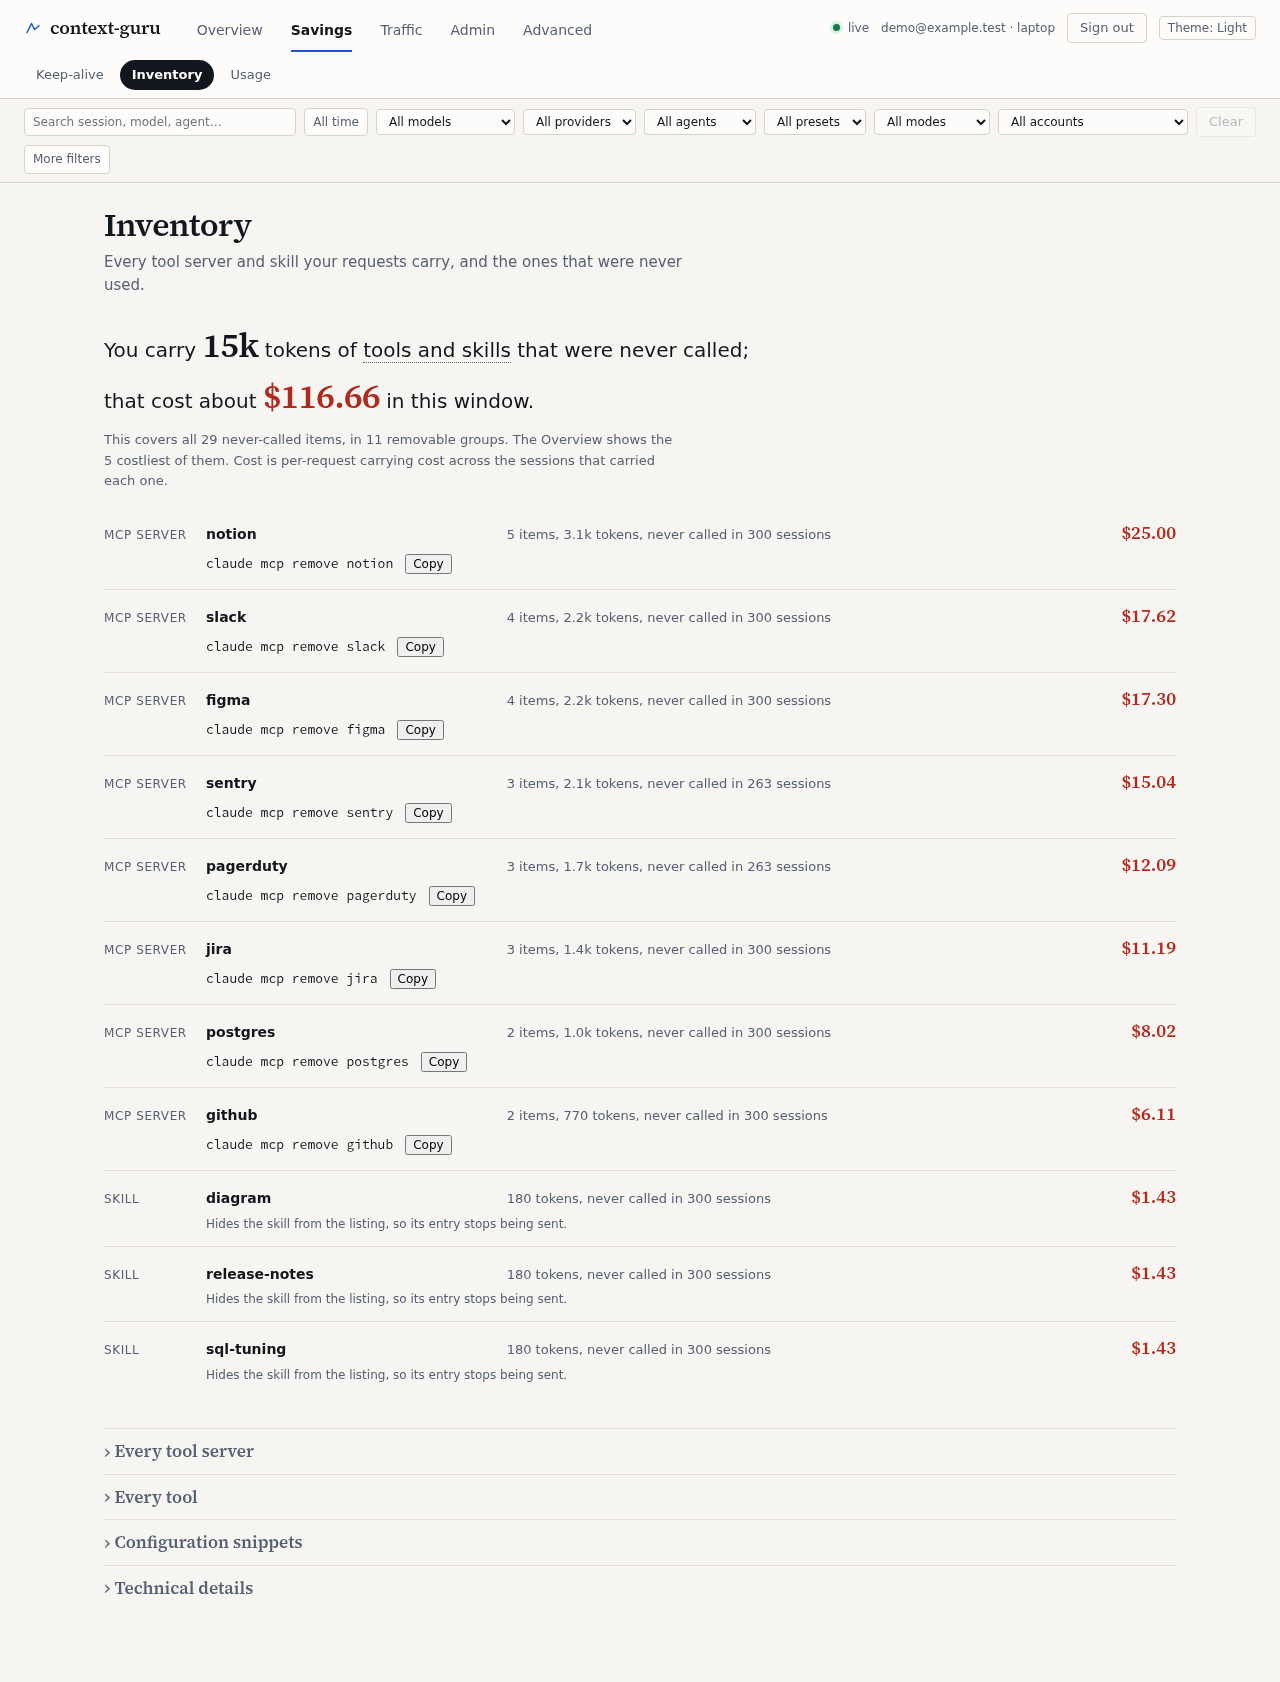
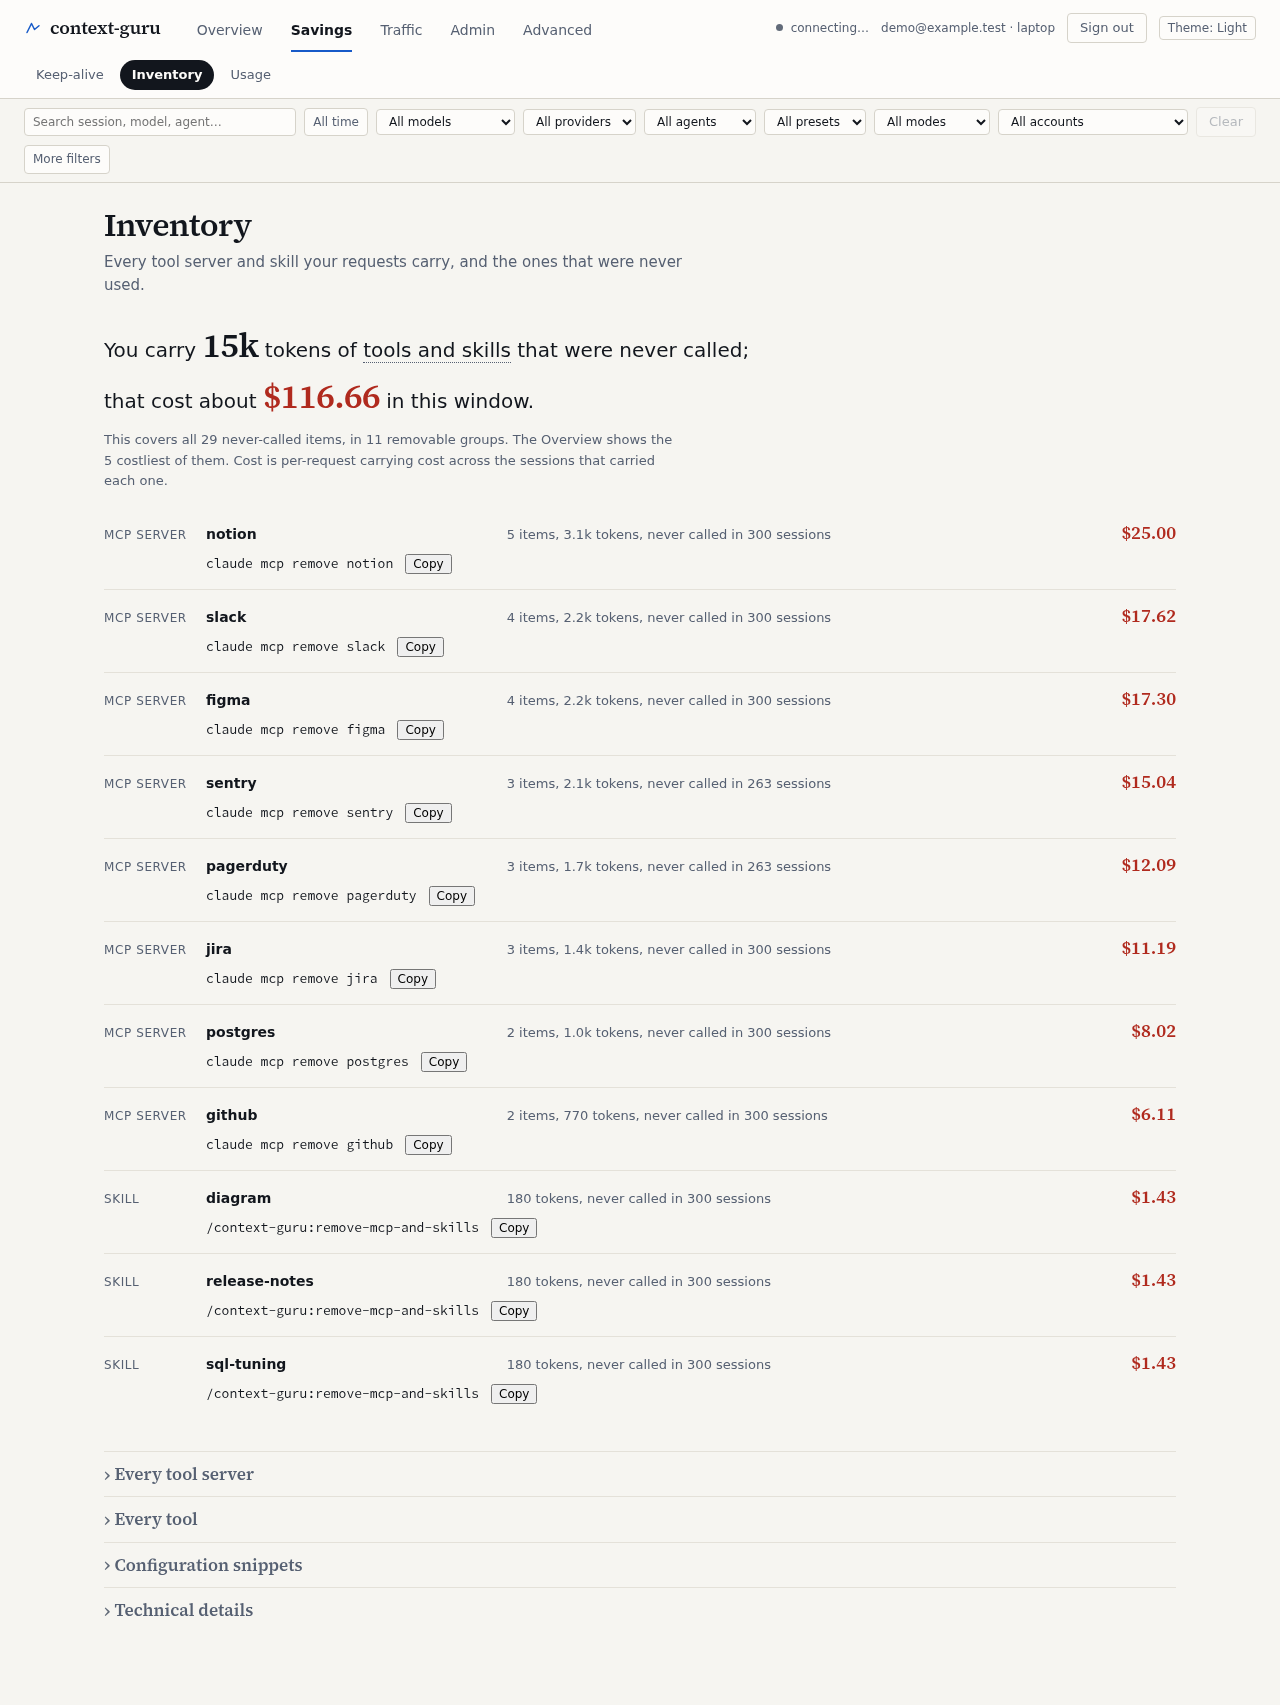
docs(dash): one dashboard, regenerated screenshots, guide for the new Overview

diff --git a/docs/how-to/dashboard-guide.md b/docs/how-to/dashboard-guide.md
@@ -4,7 +4,7 @@ A plain guide to every tab of the context-guru dashboard. Each section says in o
 tab shows, then explains its blocks in a few words. For the technical reference see
 [Dashboard](../dashboard.md).
 
-The dashboard opens at `http://localhost:4000/dashboard/index.html` (use your own host and port).
+The dashboard opens at `http://localhost:4000/dashboard/` (use your own host and port). Old links such as `#home` and `#cache` open Overview and Keep-alive.
 The tabs sit in five groups along the top: **Overview**, **Savings**, **Traffic**, **Admin** and
 **Advanced**. The row of filters under them (time range, model, agent, account) applies to every
 tab. Pick a range first; all the numbers below follow it.
@@ -24,21 +24,17 @@ tab's title says so. The sample data on these screenshots is invented. Dark them
 
     ![The Overview tab, dark theme](../img/dashboard/overview-dark.png)
 
-**What context-guru saved.** Three rows: Cache keep-alive, Compaction, and Tools and skills filter. Each shows money and tokens saved, set against what you spent in the selected range. An "Estimated" or "Upper bound" badge tells you how firm the number is. The keep-alive row also shows the waiting time it avoided.
+**What context-guru saved.** Three rows: Cache keep-alive, Compaction, and Tools and skills filter. Each shows money and tokens saved, set against what you spent in the selected range. An "Estimated" or "Upper bound" badge tells you how firm the number is. The keep-alive row also shows the waiting time it avoided, and says that whether to keep it on is a forecast from your own history: see the Keep-alive tab. A note under the rows explains that "spent" includes our own model calls and pings, and that the provider's own cache discount is not counted as our saving.
 
-**Tools and skills to remove.** A ranked list of the tools and skills your agent carries but never uses, with what carrying each one cost in this range. Two commands you can copy, `/context-guru:remove-mcp-and-skills` and `/context-guru:insights tools`, remove them or show the details. A link opens the Inventory tab.
+**Tools and skills to remove.** A ranked list of the tools and skills your agent carries but never uses, with what carrying each one cost in the selected range. Two commands you can copy, `/context-guru:remove-mcp-and-skills` and `/context-guru:insights tools`, remove them or show the details. A link opens the Inventory tab.
 
 **About the other tabs.** One short line per tab, grouped like the navigation bar.
 
-**Detailed diagnostics.** Closed by default. Open it for the plots behind the numbers: net saving over time, baseline to net, tokens, cache reads and writes, latency, requests, and live requests.
+**Detailed diagnostics.** Closed by default. Open it for the plots behind the numbers. Every plot shows exact figures when you hover it. There are five: net saving over time (a line); money saved and money added (bars above and below the zero line; an outlined bar is an upper bound, not a firm figure); tokens removed (columns); where your input tokens went (columns that each fill to 100%: read from cache, written to cache, sent fresh); and time added to each request (two small lines, each on its own scale) together with the number of requests and how many missed the cache. Below them is a live table of requests as they arrive.
 
 Detailed diagnostics, opened:
 
 ![The Overview with Detailed diagnostics open](../img/dashboard/overview-diagnostics-light.png)
-
-On a phone the same page stacks into one column:
-
-![The Overview tab at phone width](../img/dashboard/overview-phone.png){ width=260 }
 
 
 ## Keep-alive
@@ -114,7 +110,7 @@ On a phone the same page stacks into one column:
 
     ![The Sessions tab, dark theme](../img/dashboard/sessions-dark.png)
 
-**All sessions.** A sortable table with a few columns by default. Pick more columns from the menu. Click a row to open the session and see its requests. The filter bar narrows the list by model, agent or account.
+**All sessions.** A sortable table showing six columns by default; tick "More columns" to see the rest. Order it newest first or costliest first. Click a row to open the session and see its requests. The filter bar narrows the list by model, agent or account.
 
 
 ## Requests
@@ -286,3 +282,11 @@ On a phone the same page stacks into one column:
 **Would these predictions hold on new data?.** Picks a rule on an earlier period and scores it on a later one. If it only works on the earlier period, the check says so.
 
 **Campaigns you have created.** The list of campaigns and what each did.
+
+
+## On a phone
+
+At phone width every tab stacks into one column and tables scroll sideways inside their own box. Overview and Sessions:
+
+![The Overview tab at phone width](../img/dashboard/phone/overview-phone.png){ width=260 }
+![The Sessions tab at phone width](../img/dashboard/phone/sessions-phone.png){ width=260 }

diff --git a/docs/dashboard.md b/docs/dashboard.md
@@ -10,15 +10,15 @@ context-guru-proxy --preset general --dashboard
 # open http://localhost:4000/dashboard/
 ```
 
-`/dashboard/` opens the five-page home: Home, Savings, Cache, Tools & context and Sessions, each with a
-bottom line first. The full dashboard described below (every view, settings, admin) is at
-`/dashboard/index.html`, and old links such as `/dashboard/#/savings/usage` open it there.
+`/dashboard/` opens the **Overview**. The older links `/dashboard/#home` and `/dashboard/#cache` open
+Overview and Keep-alive, and `/dashboard/home.html` redirects to the dashboard.
 
 It is **off by default**. Turning it on adds `/dashboard/` and `/api/*`; every existing
 route, including [`/stats`](reference/reference.md), is byte-for-byte unchanged.
 
 !!! info "No CDN, no build step, no network"
-    The whole UI is three files (`index.html`, `style.css`, `app.js`) embedded in the
+    The whole UI is a handful of static files (`index.html`, `style.css`, `app.js`, `charts.js`,
+    `tools.js`, `kvcache.js`, `campaigns.js` and one bundled font) embedded in the
     binary with `go:embed`. Charts are hand-drawn SVG — no chart library, no framework.
     The page fetches nothing off-origin, so it works in a VPC or fully air-gapped.
 
@@ -28,18 +28,23 @@ route, including [`/stats`](reference/reference.md), is byte-for-byte unchanged.
 
 ## What you'll see
 
-- **Overview** — three rows of what context-guru saved (cache keep-alive, compaction, and the
-  tools and skills filter), each in dollars and tokens against what you spent. Below them
-  a ranked list of tools and skills to remove, a one-line guide to the other tabs, and a
-  closed "Detailed diagnostics" section with the plots behind the numbers. One view, no sub-nav.
-- **Savings** — where the money went: [keep-alive](how-to/cache-keepalive.md), the
-  [tool inventory](#tool-inventory-panel), and usage over time.
-- **Traffic** — per-session and per-request detail, including a git-style diff of
-  exactly what was rewritten on the wire.
-- **Admin** — configuration, strategies, tenants, setup, settings, archive and feedback
+- **Overview** — "What context-guru saved": three rows (cache keep-alive, compaction, tools and
+  skills filter), each in dollars and tokens against what you spent, with an *Estimated* or
+  *Upper bound* badge. The keep-alive row notes that whether to keep it on is a forecast (see
+  Keep-alive), and a note says the provider's own cache discount is not counted. Below: "Tools and
+  skills to remove" (a ranked list, with `/context-guru:remove-mcp-and-skills` and
+  `/context-guru:insights tools`), "About the other tabs", and one closed "Detailed diagnostics"
+  section with five plots (net saving over time; money saved and added, where an outlined bar is an
+  upper bound; tokens removed; where input tokens went, as 100% columns of cache read, cache write
+  and fresh; time added per request and requests with cache misses) and a live requests table.
+  Every plot shows exact figures on hover.
+- **Savings** — Keep-alive, Inventory (the [tool inventory](#tool-inventory-panel)) and Usage over time.
+- **Traffic** — Sessions (newest or costliest first; six columns, more with a checkbox) and
+  Requests, including a git-style diff of exactly what was rewritten on the wire.
+- **Admin** — Config, Strategies, Tenants, Setup, Settings, Archive and Feedback
   (some of these appear only in a [hosted service](hosted.md)).
-- **Advanced** — per-component economics (which ones earn their place),
-  [KV-cache behavior](#kv-cache-panel), and per-account cache campaigns.
+- **Advanced** — Components (per-component economics), [KV-cache behavior](#kv-cache-panel),
+  and Campaigns (per-account keep-alive rules).
 
 Every tab starts with a title and one line saying what it shows. Dark mode, small
 viewports, and empty states (a blank dashboard explains *why* each panel is blank) are

diff --git a/docs/how-to/measure-savings.md b/docs/how-to/measure-savings.md
@@ -155,7 +155,7 @@ runs one task through it:
 export ANTHROPIC_BASE_URL=...            # upstream Anthropic-compatible endpoint
 export ANTHROPIC_AUTH_TOKEN=...
 scripts/cc-demo.sh
-# then open http://localhost:4000/dashboard/index.html#/traffic/sessions and click the session
+# then open http://localhost:4000/dashboard/#sessions and click the session
 ```
 
 See also: [Dashboard](../dashboard.md) · [Benchmarks](../RESULTS.md) ·
